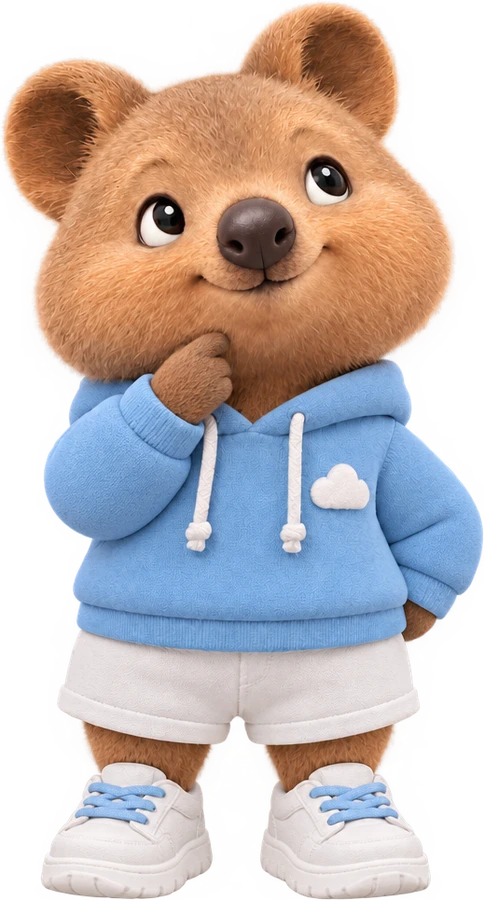
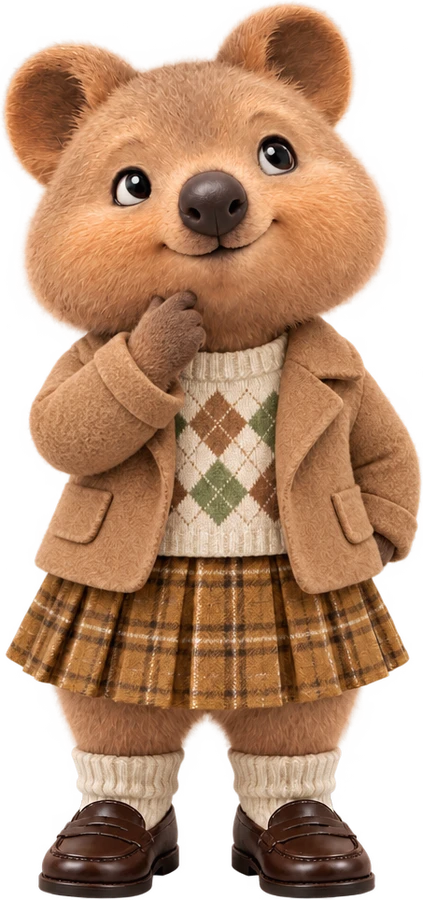
E78 캐릭터 가을 코디: 카멜 재킷·아가일 니트·체크 스커트·로퍼, 공식 앵커 얼굴 기준
- 힉스필드 키 1장(앵커 참조+마스터 문장)과 포즈 4장(앵커+키 이중 참조)으로 교체, 팔레트 이름 '가을 아가일'
- 썸네일 3종 재생성

diff --git a/engine/palette.js b/engine/palette.js
@@ -104,7 +104,7 @@ export const PALETTES = {
   't7-super-intelligence-word':{ a1: '#15803D', a2: '#B45309', name: '크림 트렌치·초록 베레' },
   'v8-motion-code':            { a1: '#111827', a2: '#CA8A04', name: '블랙 터틀넥·금테 안경' },
   'v8-inclusive-ai':           { a1: '#1E3A8A', a2: '#B91C1C', name: '바시티 재킷' },
-  'v8-php2shell':              { a1: '#2563EB', a2: '#0EA5E9', name: '하늘색 후디' }
+  'v8-php2shell':              { a1: '#2563EB', a2: '#B45309', name: '가을 아가일' }
 };
 export const DEFAULT_PALETTE = { a1: '#2563EB', a2: '#EA580C', name: '기본' };
 
